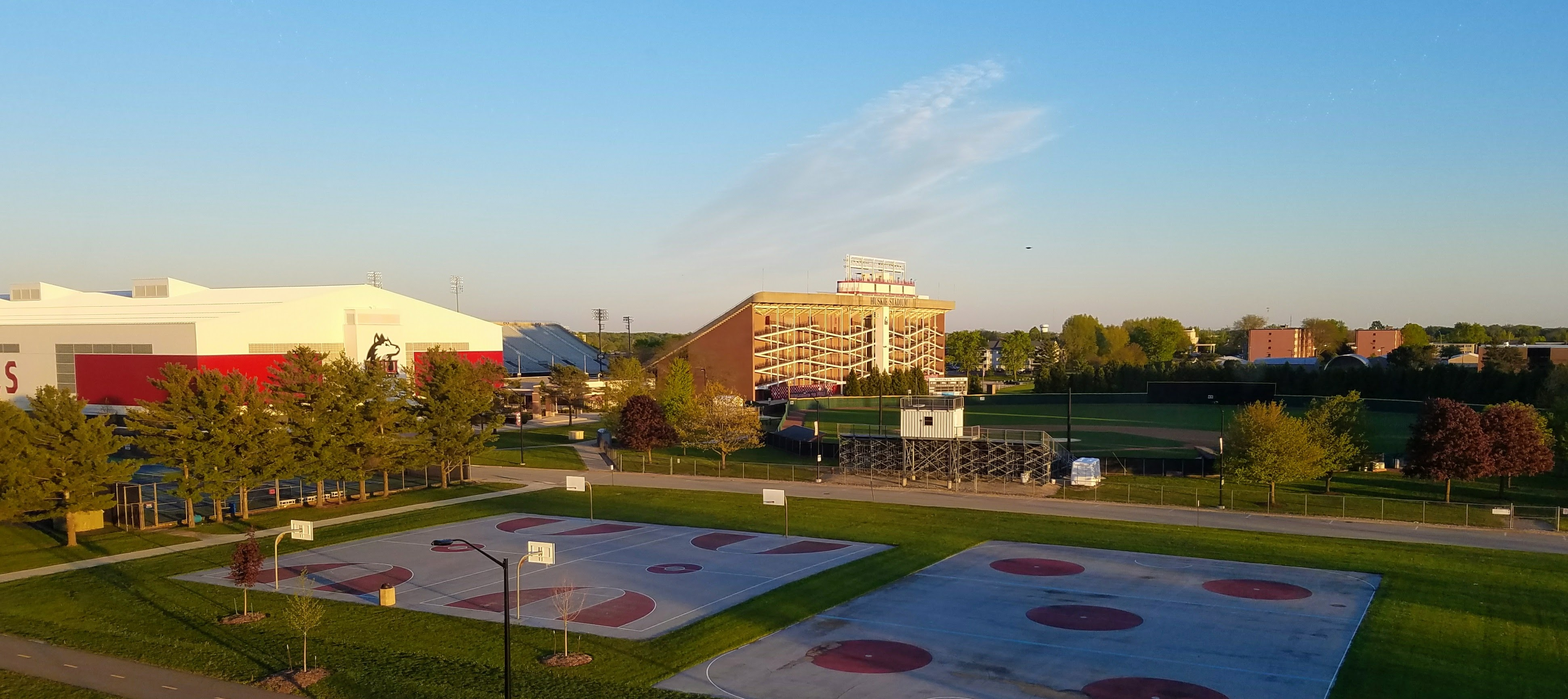
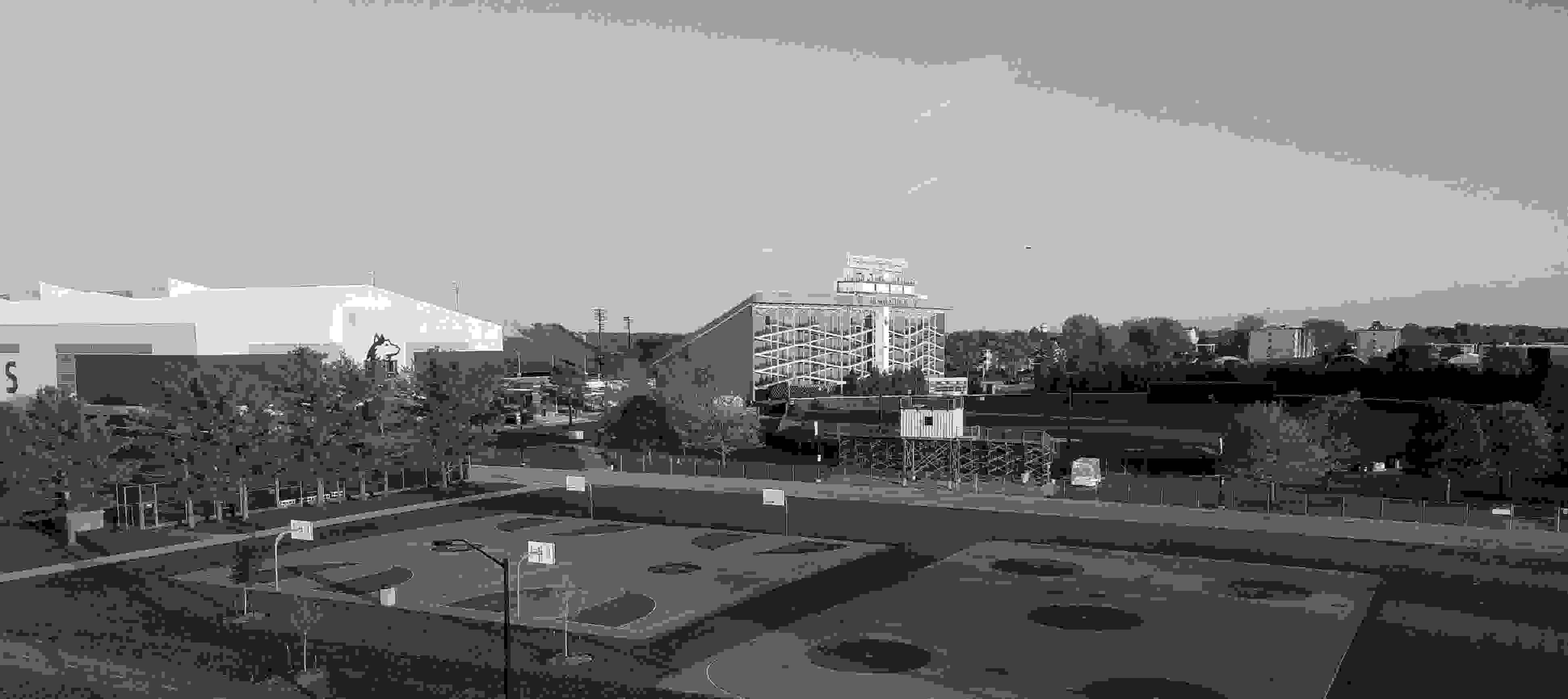
Fixes
Fixes for link clicking desktop
Background picture now black and white
card fixes

diff --git a/business/style.css b/business/style.css
@@ -1,7 +1,6 @@
 html, body {
     width: 100%;
     height: 100%;
-
 }
 body {
     margin: 0;
@@ -13,7 +12,7 @@ body {
     position: relative;
     background-color: #1e1e1e;
     width: 100%;
-    height: 70px;
+    height: 300px;
     z-index: 0;
     border-bottom: 1px solid #1e1e1e;
 }
@@ -24,14 +23,14 @@ body {
     width: 100%;
     height: 100%;
     position: absolute;
-    opacity: 0.05;
+    opacity: 0.1;
     z-index: -1;
 }
 
 #header img {
-    height: 80px;
+    height: 150px;
     border-radius:50%;
-    border: 2px solid #eeeeee;
+    border: 4px solid #eeeeee;
     margin-bottom: 15px;
 }
 
@@ -80,7 +79,7 @@ body {
 
 #navbar #links ul li{ 
     padding-left: 24px;
-    display:inline;
+    display: inline;
     margin:0;
 }
 
@@ -88,9 +87,11 @@ body {
     position:absolute;
     text-align: center;
 	left: 50%;
-	width:300px;
-	margin-top: -60px;
-	margin-left: -150px;
+	width:200px;
+    top: 50%;
+    height: 158px;
+    margin-top: -79px;
+	margin-left: -100px;
 }
 
 #header .center__item h1 {
@@ -113,21 +114,18 @@ body {
     position: absolute;
     left: 0;
     right: 0;
-    max-width: 1500px;
+    max-width: 1440px;
     margin: 0 auto;
-    z-index: -1;
+    z-index: 1;
     padding: 10px;
-}
-
-#sidebar {
-    width: 350px;
-    float: right;
+    background-color: #f5f5f5;
 }
 
 .card {
     background-color: #e0e0e0;
-    margin: auto;
+    margin: 0 auto;
     width: 100%;
+    max-width: 450px;
     height: 88px;
     z-index: 2;
 }
@@ -135,7 +133,7 @@ body {
 .card__icon {
     position: relative;
     left: 0;
-    width: 25%;
+    width: 33.3%;
     height: 100%;
     z-index: 3;
     float: left;
@@ -151,7 +149,6 @@ body {
     width      : 70px;
     height     : 50px;
     margin     : -25px 0 0 -35px;
-  
 }
 
 .card__icon__git {
@@ -178,14 +175,13 @@ body {
     background-color: #ff7700;
 }
 
-
-@media screen and (max-width: 500px), screen and (max-height: 450px) {
+@media screen and (max-width: 550px), screen and (max-height: 450px) {
     #navbar #name {
         display: none;
     }
 
     #header {
-        height: 90%;
+        height: 96%;
     }
 
     #header .center__item h1 {
@@ -194,6 +190,7 @@ body {
 
     #header img {
         height: 60px;
+        border: 2px solid #eeeeee;
     }
 
     #header .center__item {

diff --git a/business/index.html b/business/index.html
@@ -5,11 +5,11 @@
         <link rel="stylesheet" type="text/css" href="style.css">
         <meta name="viewport" content="width=device-width, initial-scale=1">
         <link rel="stylesheet" href="font-awesome/css/font-awesome.min.css">
+        <meta name="theme-color" content="#1e1e1e">
     </head>
     <body>
         <div id="header">
             <div class="background"></div>
-
                 <div id="navbar">
                     <div class="inner">
                         <div id="name">
@@ -31,32 +31,41 @@
             </div>
         </div>
         <div id="card__background">
-
-            <div id="sidebar">
-
-                <div class="card">
+            <div class="card">
+            </div>
+            <div class="card">
+                <a href="#">
                     <div class="card__icon card__icon__git">
                         <i class="fa fa-github"></i>
                     </div>
+                </a>
+                <a href="#">
                     <div class="card__icon card__icon__linkedin">
                         <i class="fa fa-linkedin"></i>
                     </div>
+                </a>
+                <a href="#">
                     <div class="card__icon card__icon__email">
                         <i class="fa fa-envelope"></i>
                     </div>
-                    <div class="card__icon card__icon__instagram">
-                        <i class="fa fa-instagram"></i>
-                </div>
-                <div class="card">
-                    </div>
+                </a>
+            </div>
+            <div class="card">
+                <a href="#">
                     <div class="card__icon card__icon__twitter">
                         <i class="fa fa-twitter"></i>
                     </div>
+                </a>
+                <a href="#">
                     <div class="card__icon card__icon__soundcloud">
                         <i class="fa fa-soundcloud"></i>
                     </div>
-                </div>
-
+                </a>
+                <a href="#">
+                    <div class="card__icon card__icon__instagram">
+                        <i class="fa fa-instagram"></i>
+                    </div>
+                </a>
             </div>
         </div>
     </body>
